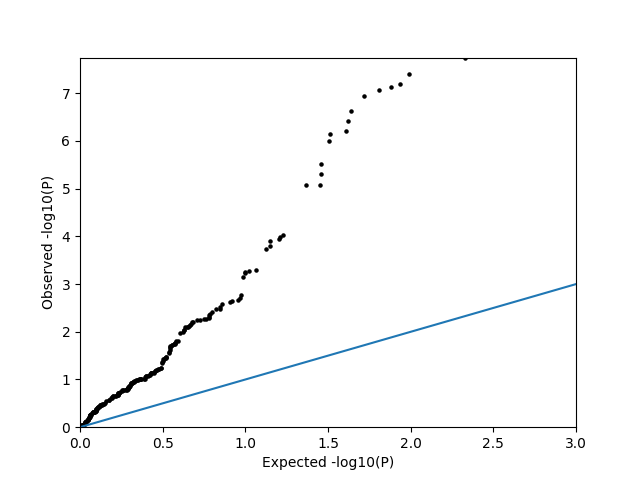
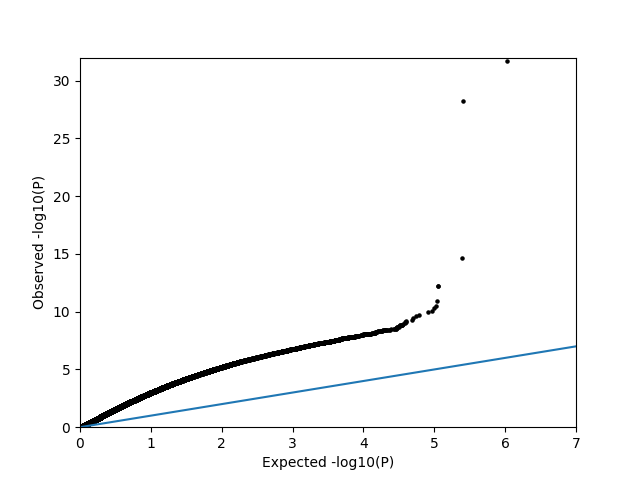
updated qqplot to have expanded graph dimensions

diff --git a/p_val.py b/p_val.py
@@ -1,5 +1,6 @@
 # this file 
 # reference: lab 3  
+import math
 import numpy as np
 import matplotlib.pyplot as plt
 import statsmodels.api as sm
@@ -109,9 +110,12 @@ def QQPlot(df):
     fig = plt.figure()
     ax = fig.add_subplot(111)
     ax.scatter(-1*np.log10(unif), -1*np.log10(pvals), s=5, color="black")
-    ax.plot([0, 3], [0,3])
-    ax.set_xlim(left=0, right=3)
-    ax.set_ylim(bottom=0, top=max(-1*np.log10([item for item in pvals if item >0])))
+    largestX = math.ceil(max(-1*np.log10([item for item in unif if item > 0])))
+    largestY = math.ceil(max(-1*np.log10([item for item in pvals if item > 0])))
+    smallerDimension = min(largestX, largestY)
+    ax.plot([0, smallerDimension], [0, smallerDimension])
+    ax.set_xlim(left=0, right=largestX)
+    ax.set_ylim(bottom=0, top=largestY)
     ax.set_xlabel("Expected -log10(P)")
     ax.set_ylabel("Observed -log10(P)")
     plt.savefig('qqplot.png')
